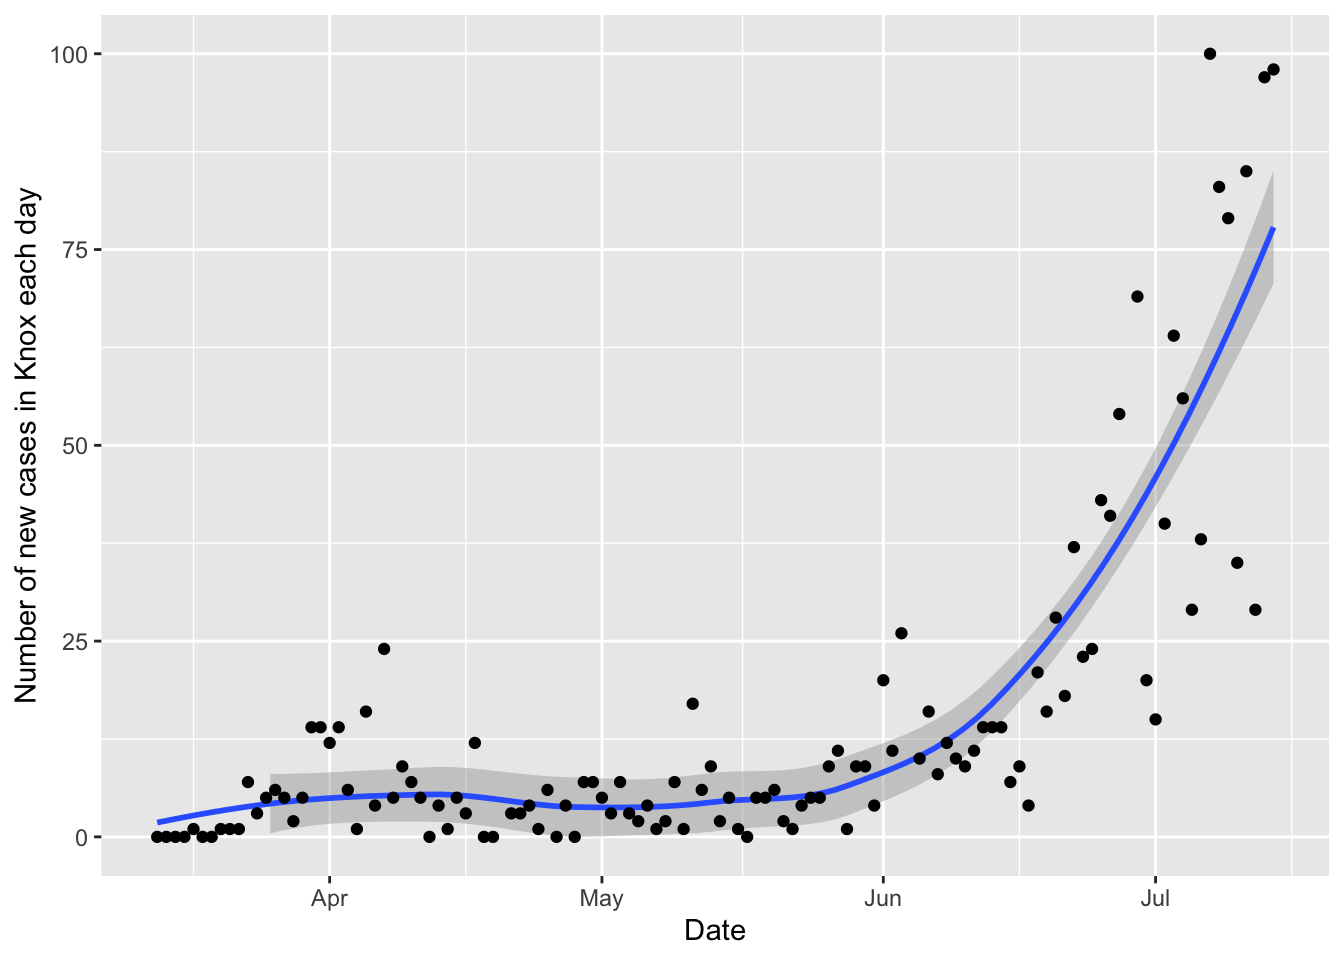
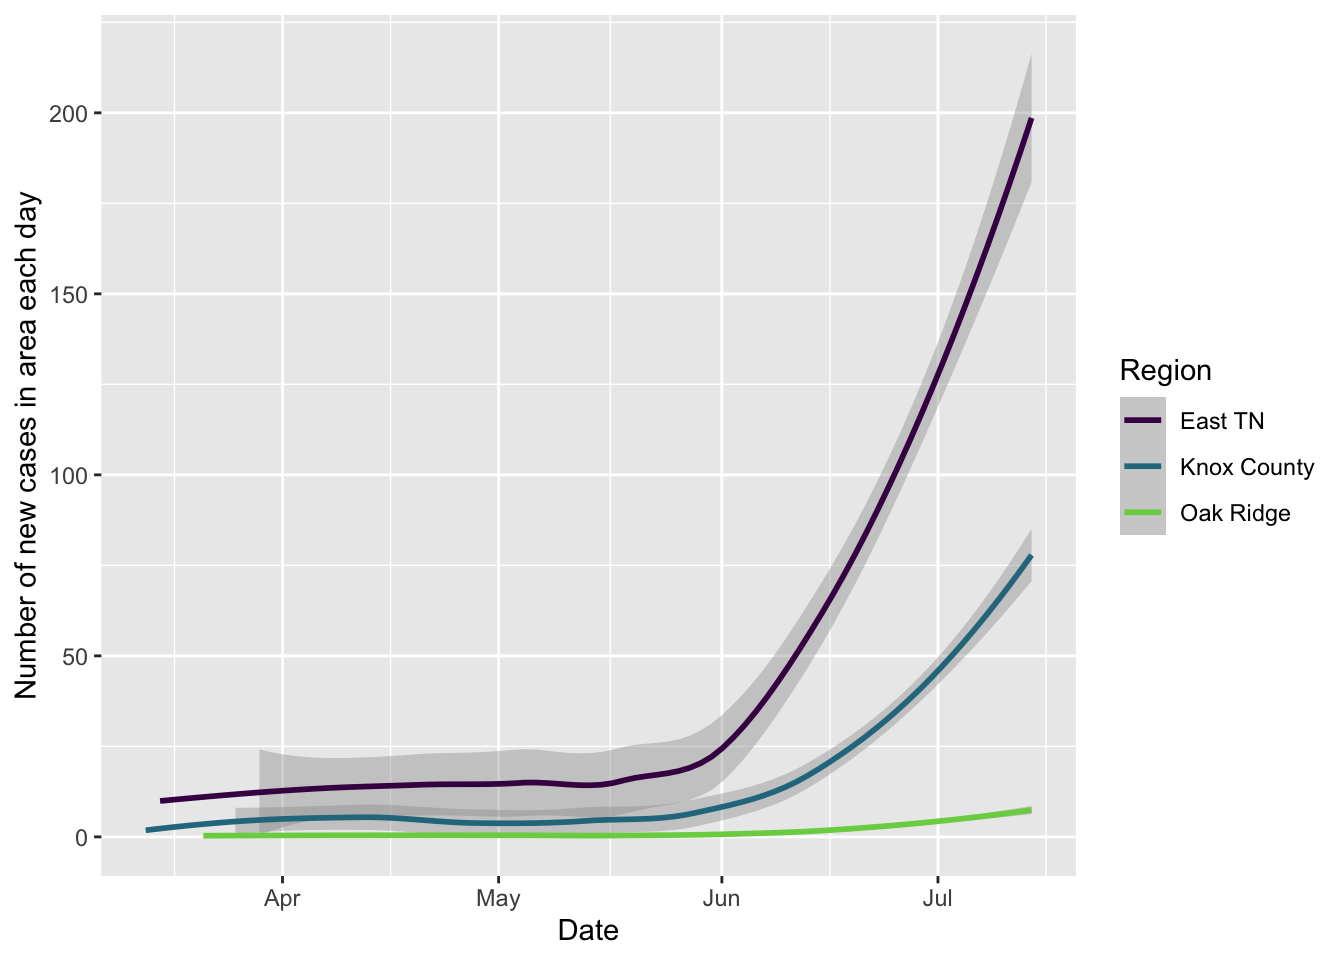
updating site

diff --git a/docs/covid.html b/docs/covid.html
@@ -412,8 +412,15 @@ $(document).ready(function () {
 <li><a href="https://projects.propublica.org/reopening-america/">ProPublica’s tracker of state status</a>. Click on the play button below their map to see how rates are changing over time, and dig into info on your state.</li>
 </ul>
 <hr />
-<p>Here are some plots, created in R using data from <a href="https://covid19datahub.io" class="uri">https://covid19datahub.io</a> (Guidotti, E., Ardia, D., (2020), “COVID-19 Data Hub”, Working paper, doi: 10.13140/RG.2.2.11649.81763), as well as information from Google and the <a href="https://www.tn.gov/health/cedep/ncov/data/downloadable-datasets.html">state of Tennessee dataset page</a> and plotting and analysis using the <code>forecast</code>, <code>ggplot2</code>, <code>reshape2</code>, and <code>dplyr</code> packages. It also uses the <a href="https://github.com/mtna/rds-r">rds-r</a> package from <a href="https://www.richdataservices.com/" class="uri">https://www.richdataservices.com/</a>. Plots created on 2020-07-14 23:31:31. I use <code>ggplot2</code>’s <code>geom_smooth()</code> function for the smoothed regression plots with its default formula, which uses loess smoothing for this many points. This is not based on a model of disease spread or anything similarly sophisticated, just drawing a smooth curve to summarize noisy points (see <a href="https://www.itl.nist.gov/div898/handbook/pmd/section1/pmd144.htm">here</a> for more details).</p>
+<p>Here are some plots, created in R using data from <a href="https://covid19datahub.io" class="uri">https://covid19datahub.io</a> (Guidotti, E., Ardia, D., (2020), “COVID-19 Data Hub”, Working paper, doi: 10.13140/RG.2.2.11649.81763), as well as information from Google and the <a href="https://www.tn.gov/health/cedep/ncov/data/downloadable-datasets.html">state of Tennessee dataset page</a> and plotting and analysis using the <code>forecast</code>, <code>ggplot2</code>, <code>reshape2</code>, and <code>dplyr</code> packages. It also uses the <a href="https://github.com/mtna/rds-r">rds-r</a> package from <a href="https://www.richdataservices.com/" class="uri">https://www.richdataservices.com/</a>. Plots created on 2020-07-15 01:00:43. I use <code>ggplot2</code>’s <code>geom_smooth()</code> function for the smoothed regression plots with its default formula, which uses loess smoothing for this many points. This is not based on a model of disease spread or anything similarly sophisticated, just drawing a smooth curve to summarize noisy points (see <a href="https://www.itl.nist.gov/div898/handbook/pmd/section1/pmd144.htm">here</a> for more details).</p>
 <p>The number of new and active cases should be not be going up if things are well-controlled, and ideally should be going down. The number of active cases is the number of positive cases minus the total of recovered or deceased cases: note it is from those tested and shown to be positive, but there are likely more people with covid who have not been tested. This uses data from <a href="https://www.tn.gov/health/cedep/ncov/data/downloadable-datasets.html" class="uri">https://www.tn.gov/health/cedep/ncov/data/downloadable-datasets.html</a>. Note that the number of active cases in Knox County reported by the state differs from the <a href="https://covid.knoxcountytn.gov/case-count.html#covid_data">county website</a>, sometimes dramatically (on June 16, the county website said 102 active cases, while the state says 178, for example) – I suspect this is based on the number of recovered cases not being updated as quickly in the state data, but I do not know. Knox County does not seem to offer a download of their data through time, so I am using the state’s data. The number of new cases per day seems to align fairly well, but not perfectly, between the state and county data, too.</p>
+<p>I plot three regions</p>
+<ul>
+<li>Knox County (which includes Knoxville)</li>
+<li>“Oak Ridge” (Roane and Anderson Counties, which include the town of Oak Ridge)</li>
+<li>East TN (the 14 counties that have acute care Hospitals in Knox County/East Region according to Knox County)</li>
+</ul>
+<p>For most of these plots, I am now showing the smoothed curves rather than the raw points per day – these can jump around quite a bit.</p>
 <p><img src="covid_files/figure-html/plotsA-1.png" width="672" /><img src="covid_files/figure-html/plotsA-2.png" width="672" /></p>
 <p>A question is whether testing is adequate. The White House has said about 30 tests per 1000 people per month is adequate (this is also what <a href="https://projects.propublica.org/reopening-america/#notes">ProPublica</a> uses); others have argued that around 45 tests per 1000 people per month is better, though with variation depending on infection rate (see <a href="https://www.statnews.com/2020/04/27/coronavirus-many-states-short-of-testing-levels-needed-for-safe-reopening/">here</a>). These are the black lines on the plots below (calculated as tests per day, given Knox County’s population of 470313, and assuming 30 days per month).</p>
 <p><img src="covid_files/figure-html/plotsB-1.png" width="672" /></p>
@@ -421,20 +428,23 @@ $(document).ready(function () {
 <p><img src="covid_files/figure-html/plotsB2-1.png" width="672" /></p>
 <p>Another way to look at testing (or disease spread) is to look at the proportion of positive tests (“positivity rate”): they can go up if a greater proportion of symptomatic people are being tested and/or if the frequency of the disease is increasing. Updated WHO guidelines recommend testing should be 5% positive or lower (black line).</p>
 <p><img src="covid_files/figure-html/plotsB3-1.png" width="672" /></p>
-<p>Which age groups are being infected is an important question as local schools open up. These are data from Knox county alone.</p>
-<p><img src="covid_files/figure-html/age2-1.png" width="672" /><img src="covid_files/figure-html/age2-2.png" width="672" /></p>
-<p>Another question is what is happening at UT as campus opens up and testing ramps up. There is some information on active cases available. Note that this is based on parsing a website without clean tables of data, and which sometimes drops labels for the data.</p>
-<p><img src="covid_files/figure-html/utactive-1.png" width="672" /></p>
-<p>I’ve been curious about how active people have been – are they still going out, etc. The webcams at the bottom of the page are a glimpse of that, but Google has also been tracking activity data. Here are smoothed plots of activity over time, as a percentage of activity pre-COVID19 (the raw data are much more variable).</p>
-<p><img src="covid_files/figure-html/plotsC-1.png" width="672" /></p>
 <hr />
 <h2>
 Hospitalization
 </h2>
-<p>Currently, regional hospitals have 21 ICU beds available of 272 total, and 144 available ventilators out of 242 total. This is based on 19 hospitals in the East TN region, serving 1,235,720 people from 14 counties. When a line hits 100%, the local hospitals are theoretically full for that resource (for all patients, not just covid patients), though there is surge capacity on top of this. Note that these data are not updated frequently, so current conditions maybe be much better or worse than these plots show. Data on capacity from <a href="https://knxhx.richdataservices.com/">https://knxhx.richdataservices.com/</a>, data on hospitalizations and testing over time from the state data.</p>
+<p>As of the last time the data were updated (likely 6 days ago), regional hospitals had 21 ICU beds available of 272 total, and 144 available ventilators out of 242 total. This is based on 19 acute care hospitals in the East TN region; based on the 14 counties these hospitals are in, these serve at least 1,235,720 people. When a line hits 100%, the local hospitals are theoretically full for that resource (for all patients, not just covid patients), though there is surge capacity on top of this. Note that these data are not updated frequently, so current conditions maybe be much better or worse than these plots show. Data on capacity from <a href="https://knxhx.richdataservices.com/">https://knxhx.richdataservices.com/</a>, data on hospitalizations and testing over time from the state data.</p>
 <p><img src="covid_files/figure-html/hospitalcapacityplot-1.png" width="672" /></p>
-<p>Trends in hospitalization of covid patients over time</p>
-<p><img src="covid_files/figure-html/plotsD-1.png" width="672" /><img src="covid_files/figure-html/plotsD-2.png" width="672" /></p>
+<p>Trends in hospitalization of covid patients over time. The vertical dotted line shows the last day with updated capacity information.</p>
+<p><img src="covid_files/figure-html/plotsD-1.png" width="672" /></p>
+<hr />
+<p>Which age groups are being infected is an important question as local schools open up. These are data from Knox county alone.</p>
+<p><img src="covid_files/figure-html/age2-1.png" width="672" /><img src="covid_files/figure-html/age2-2.png" width="672" /></p>
+<hr />
+<p>Another question is what is happening at UT as campus opens up and testing ramps up. There is some information on active cases available. Note that this is based on parsing a website without clean tables of data, and which sometimes drops labels for the data.</p>
+<p><img src="covid_files/figure-html/utactive-1.png" width="672" /></p>
+<hr />
+<p>I’ve been curious about how active people have been – are they still going out, etc. The webcams at the bottom of the page are a glimpse of that, but Google has also been tracking activity data. Here are smoothed plots of activity over time, as a percentage of activity pre-COVID19 (the raw data are much more variable).</p>
+<p><img src="covid_files/figure-html/plotsC-1.png" width="672" /></p>
 <hr />
 <h2>
 Local webcams
